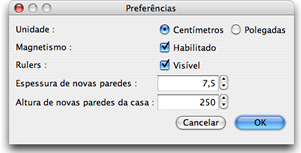
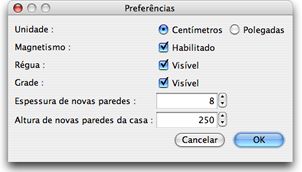
Added grid visibility to user preferences

Changed region(s): [[0.0, 0.0, 1.0, 0.9935]]

diff --git a/SweetHome3D/src/com/eteks/sweethome3d/swing/resources/help/fr/editingPreferences.html b/SweetHome3D/src/com/eteks/sweethome3d/swing/resources/help/fr/editingPreferences.html
@@ -28,7 +28,7 @@
 	<tr>
 	<td><p>Pour &eacute;diter les pr&eacute;f&eacute;rences de Sweet Home 3D, choisissez <i>Sweet Home 3D &gt; Pr&eacute;f&eacute;rences...</i> sous
 	    Mac OS X ou <i>Fichier &gt; Pr&eacute;f&eacute;rences...</i> sous les autres syst&egrave;mes d'exploitation.</p>
-	  <p align="center"><img src="images/editingPreferences.png" width="300" height="161"></p>
+	  <p align="center"><img src="images/editingPreferences.png" width="286" height="172"></p>
 	  <p>Dans le panneau des pr&eacute;f&eacute;rences, vous pouvez choisir l'<i>Unit&eacute;</i> utilis&eacute;e pour dessiner
 	    les r&egrave;gles et la grille du plan du
 	    logement, et pour afficher les longueurs. <br>
@@ -36,7 +36,9 @@
 	    au cours du dessin des murs et le positionnement des meubles.<br>
 	    La bo&icirc;te &agrave; cocher <i>R&egrave;gles</i> permet de rendre visibles ou invisibles les r&egrave;gles affich&eacute;es
 	    en haut et &agrave; gauche du plan.<br>
-	    La valeur de l'<i>Epaisseur des nouveaux murs</i> d&eacute;termine l'&eacute;paisseur des murs qui seront cr&eacute;&eacute;s
+	    La bo&icirc;te &agrave; cocher <i>Grille</i> permet de rendre visible ou invisible la grile affich&eacute;e
+	    sous le plan.<br>
+La valeur de l'<i>Epaisseur des nouveaux murs</i> d&eacute;termine l'&eacute;paisseur des murs qui seront cr&eacute;&eacute;s
 	    une fois que le panneau des pr&eacute;f&eacute;rences sera ferm&eacute;.<br>
 	    La valeur de la <i>Hauteur des nouveaux logements</i> d&eacute;termine la hauteur des murs des logements qui seront
 	    cr&eacute;&eacute;s

diff --git a/SweetHome3D/src/com/eteks/sweethome3d/swing/resources/help/en/editingPreferences.html b/SweetHome3D/src/com/eteks/sweethome3d/swing/resources/help/en/editingPreferences.html
@@ -28,18 +28,19 @@
 	<tr>
 	<td><p>To edit Sweet Home 3D preferences, choose <i>Sweet Home 3D &gt; Preferences...</i> on Mac OS X or <i>File &gt; Preferences...</i> on
 	    other systems.</p>
-	  <p align="center"><img src="images/editingPreferences.png" width="250" height="161"></p>
+	  <p align="center"><img src="images/editingPreferences.png" width="237" height="172"></p>
 	  <p>In preferences pane, you can choose the <i>Unit</i> used to draw home plan rulers and grid, and to display lengths.<br>
 	    The <i>Magnetism</i> check
 	    box enables or disables the magnetism used in home plan during <a href="drawingWalls.html">walls drawing</a> and <a href="editingFurniture.html">furniture
 	    placing</a>.<br>
 	    The <i>Rulers</i> check box allows to make plan rulers visible or invisible.<br>
-	    The <i>New walls thickness</i> value sets the thickness of all the walls that will be created once preferences pane
-	    will be closed.<br>
-	    The <i>New home walls height</i> value 
-	    sets the height of all the walls of new homes created once preferences pane will
-	    be closed.<br>
-	    </p>
+	    The <i>Grid</i> check box allows to make plan grid visible or invisible.<br>
+	      The <i>New walls thickness</i> value sets the thickness of all the walls that will be created once preferences pane
+	      will be closed.<br>
+	      The <i>New home walls height</i> value 
+	      sets the height of all the walls of new homes created once preferences pane will
+	      be closed.<br>
+        </p>
 	  </td>
 	</tr>
 </table>

diff --git a/SweetHome3D/src/com/eteks/sweethome3d/swing/UserPreferencesPanel.java b/SweetHome3D/src/com/eteks/sweethome3d/swing/UserPreferencesPanel.java
@@ -53,6 +53,8 @@ public class UserPreferencesPanel extends JPanel {
   private JCheckBox      magnetismCheckBox;
   private JLabel         rulersVisibleLabel;
   private JCheckBox      rulersCheckBox;
+  private JLabel         gridVisibleLabel;
+  private JCheckBox      gridCheckBox;
   private JLabel         newWallThicknessLabel;
   private JSpinner       newWallThicknessSpinner;
   private JLabel         newHomeWallHeightLabel;
@@ -93,6 +95,10 @@ public class UserPreferencesPanel extends JPanel {
     this.rulersCheckBox = new JCheckBox(
         this.resource.getString("rulersCheckBox.text"));
     
+    this.gridVisibleLabel = new JLabel(this.resource.getString("gridLabel.text"));
+    this.gridCheckBox = new JCheckBox(
+        this.resource.getString("gridCheckBox.text"));
+    
     this.newWallThicknessLabel = new JLabel(this.resource.getString("newWallThicknessLabel.text"));
     this.newWallThicknessSpinner = new JSpinner(new SpinnerLengthModel(
         0.5f, 0.125f, this.centimeterRadioButton));
@@ -114,6 +120,8 @@ public class UserPreferencesPanel extends JPanel {
           KeyStroke.getKeyStroke(this.resource.getString("magnetismCheckBox.mnemonic")).getKeyCode());
       this.rulersCheckBox.setMnemonic(
           KeyStroke.getKeyStroke(this.resource.getString("rulersCheckBox.mnemonic")).getKeyCode());
+      this.gridCheckBox.setMnemonic(
+          KeyStroke.getKeyStroke(this.resource.getString("gridCheckBox.mnemonic")).getKeyCode());
       this.newWallThicknessLabel.setDisplayedMnemonic(
           KeyStroke.getKeyStroke(this.resource.getString("newWallThicknessLabel.mnemonic")).getKeyCode());
       this.newWallThicknessLabel.setLabelFor(this.newWallThicknessSpinner);
@@ -153,18 +161,25 @@ public class UserPreferencesPanel extends JPanel {
         1, 2, 2, 1, 0, 0, GridBagConstraints.WEST, 
         GridBagConstraints.NONE, rightComponentInsets, 0, 0));
     
-    add(this.newWallThicknessLabel, new GridBagConstraints(
+    add(this.gridVisibleLabel, new GridBagConstraints(
         0, 3, 1, 1, 0, 0, GridBagConstraints.WEST, 
         GridBagConstraints.NONE, labelInsets, 0, 0));
+    add(this.gridCheckBox, new GridBagConstraints(
+        1, 3, 2, 1, 0, 0, GridBagConstraints.WEST, 
+        GridBagConstraints.NONE, rightComponentInsets, 0, 0));
+    
+    add(this.newWallThicknessLabel, new GridBagConstraints(
+        0, 4, 1, 1, 0, 0, GridBagConstraints.WEST, 
+        GridBagConstraints.NONE, labelInsets, 0, 0));
     add(this.newWallThicknessSpinner, new GridBagConstraints(
-        1, 3, 1, 1, 0, 0, GridBagConstraints.WEST, 
+        1, 4, 1, 1, 0, 0, GridBagConstraints.WEST, 
         GridBagConstraints.HORIZONTAL, rightComponentInsets, 0, 0));
     
     add(this.newHomeWallHeightLabel, new GridBagConstraints(
-        0, 4, 1, 1, 0, 0, GridBagConstraints.WEST, 
+        0, 5, 1, 1, 0, 0, GridBagConstraints.WEST, 
         GridBagConstraints.NONE, new Insets(0, 0, 0, 5), 0, 0));
     add(this.newHomeWallHeightSpinner, new GridBagConstraints(
-        1, 4, 1, 1, 0, 0, GridBagConstraints.WEST, 
+        1, 5, 1, 1, 0, 0, GridBagConstraints.WEST, 
         GridBagConstraints.HORIZONTAL, new Insets(0, 0, 0, 0), 0, 0));
   }
 
@@ -181,6 +196,8 @@ public class UserPreferencesPanel extends JPanel {
         preferences.isMagnetismEnabled());    
     this.rulersCheckBox.setSelected(
         preferences.isRulersVisible());    
+    this.gridCheckBox.setSelected(
+        preferences.isGridVisible());    
     ((SpinnerLengthModel)this.newWallThicknessSpinner.getModel()).
         setLength(preferences.getNewWallThickness());
     ((SpinnerLengthModel)this.newHomeWallHeightSpinner.getModel()).
@@ -220,6 +237,13 @@ public class UserPreferencesPanel extends JPanel {
    */
   public boolean isRulersVisible() {
     return this.rulersCheckBox.isSelected();
+  } 
+  
+  /**
+   * Returns <code>true</code> if grid is visible in panel.
+   */
+  public boolean isGridVisible() {
+    return this.gridCheckBox.isSelected();
   } 
   
   /**

diff --git a/SweetHome3D/test/com/eteks/sweethome3d/junit/UserPreferencesPanelTest.java b/SweetHome3D/test/com/eteks/sweethome3d/junit/UserPreferencesPanelTest.java
@@ -62,10 +62,12 @@ public class UserPreferencesPanelTest extends TestCase {
         (JRadioButton)TestUtilities.getField(panel, "centimeterRadioButton");
     JRadioButton inchRadioButton = 
         (JRadioButton)TestUtilities.getField(panel, "inchRadioButton");
-    JCheckBox    rulersCheckBox = 
-      (JCheckBox)TestUtilities.getField(panel, "rulersCheckBox");
     JCheckBox    magnetismCheckBox = 
         (JCheckBox)TestUtilities.getField(panel, "magnetismCheckBox");
+    JCheckBox    rulersCheckBox = 
+      (JCheckBox)TestUtilities.getField(panel, "rulersCheckBox");
+    JCheckBox    gridCheckBox = 
+      (JCheckBox)TestUtilities.getField(panel, "gridCheckBox");
     JSpinner newWallThicknessSpinner = 
         (JSpinner)TestUtilities.getField(panel, "newWallThicknessSpinner");
     JSpinner newHomeWallHeightSpinner = 
@@ -77,6 +79,7 @@ public class UserPreferencesPanelTest extends TestCase {
         inchRadioButton.isSelected());
     assertTrue("Magnestism isn't selected", magnetismCheckBox.isSelected());
     assertTrue("Rulers isn't selected", rulersCheckBox.isSelected());
+    assertTrue("Grid isn't selected", gridCheckBox.isSelected());
     assertEquals("Wrong default thickness", 
         newWallThicknessSpinner.getValue(), defaultPreferences.getNewWallThickness());
     assertEquals("Wrong default wall height", 
@@ -86,6 +89,7 @@ public class UserPreferencesPanelTest extends TestCase {
     inchRadioButton.setSelected(true);
     magnetismCheckBox.setSelected(false);
     rulersCheckBox.setSelected(false);
+    gridCheckBox.setSelected(false);
     newWallThicknessSpinner.setValue(1);
     newHomeWallHeightSpinner.setValue(100);
     
@@ -93,10 +97,11 @@ public class UserPreferencesPanelTest extends TestCase {
     preferences.setUnit(panel.getUnit());
     preferences.setMagnetismEnabled(panel.isMagnetismEnabled());
     preferences.setRulersVisible(panel.isRulersVisible());
+    preferences.setGridVisible(panel.isGridVisible());
     preferences.setNewWallThickness(panel.getNewWallThickness());
     preferences.setNewHomeWallHeight(panel.getNewHomeWallHeight());
     // Check preferences value
-    assertPreferencesEqual(UserPreferences.Unit.INCH, false, false,
+    assertPreferencesEqual(UserPreferences.Unit.INCH, false, false, false,
         UserPreferences.Unit.inchToCentimeter(1), 
         UserPreferences.Unit.inchToCentimeter(100), 
         preferences);
@@ -108,6 +113,7 @@ public class UserPreferencesPanelTest extends TestCase {
     assertPreferencesEqual(preferences.getUnit(),
         preferences.isMagnetismEnabled(), 
         preferences.isRulersVisible(), 
+        preferences.isGridVisible(), 
         preferences.getNewWallThickness(),  
         preferences.getNewHomeWallHeight(), readPreferences);
   }
@@ -119,6 +125,7 @@ public class UserPreferencesPanelTest extends TestCase {
   private void assertPreferencesEqual(UserPreferences.Unit unit,
                                       boolean magnetism,
                                       boolean rulers,
+                                      boolean grid,
                                       float newWallThickness,
                                       float newHomeWallHeight,
                                       UserPreferences preferences) {
@@ -128,6 +135,8 @@ public class UserPreferencesPanelTest extends TestCase {
         preferences.isMagnetismEnabled());
     assertEquals("Wrong rulers visibility", rulers,
         preferences.isRulersVisible());
+    assertEquals("Wrong grid visibility", grid,
+        preferences.isGridVisible());
     assertEquals("Wrong new wall thickness", newWallThickness, 
         preferences.getNewWallThickness());
     assertEquals("Wrong new home wall height", newHomeWallHeight,

diff --git a/SweetHome3D/src/com/eteks/sweethome3d/swing/PlanComponent.java b/SweetHome3D/src/com/eteks/sweethome3d/swing/PlanComponent.java
@@ -354,6 +354,8 @@ public class PlanComponent extends JComponent implements Scrollable, Printable {
       });
     preferences.addPropertyChangeListener(UserPreferences.Property.UNIT, 
         new UnitChangeListener(this));
+    preferences.addPropertyChangeListener(UserPreferences.Property.GRID_VISIBLE, 
+        new GridVisibleChangeListener(this));
   }
 
   /**
@@ -381,6 +383,29 @@ public class PlanComponent extends JComponent implements Scrollable, Printable {
         if (planComponent.verticalRuler != null) {
           planComponent.verticalRuler.repaint();
         }
+      }
+    }
+  }
+
+  /**
+   * Preferences property listener bound to this component with a weak reference to avoid
+   * strong link between preferences and this component.  
+   */
+  private static class GridVisibleChangeListener implements PropertyChangeListener {
+    private WeakReference<PlanComponent>  planComponent;
+
+    public GridVisibleChangeListener(PlanComponent planComponent) {
+      this.planComponent = new WeakReference<PlanComponent>(planComponent);
+    }
+    
+    public void propertyChange(PropertyChangeEvent ev) {
+      // If plan component was garbage collected, remove this listener from preferences
+      PlanComponent planComponent = this.planComponent.get();
+      if (planComponent == null) {
+        ((UserPreferences)ev.getSource()).removePropertyChangeListener(
+            UserPreferences.Property.UNIT, this);
+      } else {
+        planComponent.repaint();
       }
     }
   }
@@ -655,7 +680,9 @@ public class PlanComponent extends JComponent implements Scrollable, Printable {
     setRenderingHints(g2D);
     // Paint component contents
     paintBackgroundImage(g2D);
-    paintGrid(g2D, this.scale);
+    if (this.preferences.isGridVisible()) {
+      paintGrid(g2D, this.scale);
+    }
     paintContent(g2D, this.scale, backgroundColor, foregroundColor, PaintMode.PAINT);   
     g2D.dispose();
   }

diff --git a/SweetHome3D/src/com/eteks/sweethome3d/model/UserPreferences.java b/SweetHome3D/src/com/eteks/sweethome3d/model/UserPreferences.java
@@ -30,7 +30,7 @@ import java.util.List;
  * @author Emmanuel Puybaret
  */
 public abstract class UserPreferences {
-  public enum Property {UNIT, MAGNETISM_ENABLED, RULERS_VISIBLE,  
+  public enum Property {UNIT, MAGNETISM_ENABLED, RULERS_VISIBLE, GRID_VISIBLE, 
                         NEW_HOME_WALL_HEIGHT, NEW_WALL_THICKNESS, RECENT_HOMES}
   
   private PropertyChangeSupport propertyChangeSupport;
@@ -58,6 +58,7 @@ public abstract class UserPreferences {
   private Unit         unit;
   private boolean      magnetismEnabled = true;
   private boolean      rulersVisible    = true;
+  private boolean      gridVisible      = true;
   private float        newWallThickness;
   private float        newHomeWallHeight;
   private List<String> recentHomes;
@@ -159,6 +160,28 @@ public abstract class UserPreferences {
       this.rulersVisible = rulersVisible;
       this.propertyChangeSupport.firePropertyChange(Property.RULERS_VISIBLE.toString(), 
           !rulersVisible, rulersVisible);
+    }
+  }
+  
+  /**
+   * Returns <code>true</code> if plan grid visible.
+   * @return <code>true</code> by default.
+   */
+  public boolean isGridVisible() {
+    return this.gridVisible;
+  }
+  
+  /**
+   * Sets whether plan grid is visible or not, and notifies
+   * listeners of this change. 
+   * @param gridVisible <code>true</code> if grid is visible,
+   *          <code>false</code> otherwise.
+   */
+  public void setGridVisible(boolean gridVisible) {
+    if (this.gridVisible != gridVisible) {
+      this.gridVisible = gridVisible;
+      this.propertyChangeSupport.firePropertyChange(Property.GRID_VISIBLE.toString(), 
+          !gridVisible, gridVisible);
     }
   }
 

diff --git a/SweetHome3D/src/com/eteks/sweethome3d/io/FileUserPreferences.java b/SweetHome3D/src/com/eteks/sweethome3d/io/FileUserPreferences.java
@@ -54,6 +54,7 @@ public class FileUserPreferences extends UserPreferences {
   private static final String UNIT                      = "unit";
   private static final String MAGNETISM_ENABLED         = "magnetismEnabled";
   private static final String RULERS_VISIBLE            = "rulersVisible";
+  private static final String GRID_VISIBLE              = "gridVisible";
   private static final String NEW_HOME_WALL_HEIGHT      = "newHomeWallHeight";
   private static final String NEW_WALL_THICKNESS        = "newWallThickness";
   private static final String RECENT_HOMES              = "recentHomes#";
@@ -106,6 +107,7 @@ public class FileUserPreferences extends UserPreferences {
     setUnit(unit);
     setMagnetismEnabled(preferences.getBoolean(MAGNETISM_ENABLED, true));
     setRulersVisible(preferences.getBoolean(RULERS_VISIBLE, true));
+    setGridVisible(preferences.getBoolean(GRID_VISIBLE, true));
     setNewWallThickness(preferences.getFloat(NEW_WALL_THICKNESS, 
             defaultPreferences.getNewWallThickness()));
     setNewHomeWallHeight(preferences.getFloat(NEW_HOME_WALL_HEIGHT,
@@ -213,6 +215,7 @@ public class FileUserPreferences extends UserPreferences {
     preferences.put(UNIT, getUnit().toString());   
     preferences.putBoolean(MAGNETISM_ENABLED, isMagnetismEnabled());
     preferences.putBoolean(RULERS_VISIBLE, isRulersVisible());
+    preferences.putBoolean(GRID_VISIBLE, isGridVisible());
     preferences.putFloat(NEW_WALL_THICKNESS, getNewWallThickness());   
     preferences.putFloat(NEW_HOME_WALL_HEIGHT, getNewHomeWallHeight());
     // Write recent homes list

diff --git a/SweetHome3D/src/com/eteks/sweethome3d/swing/HomeController.java b/SweetHome3D/src/com/eteks/sweethome3d/swing/HomeController.java
@@ -1104,6 +1104,7 @@ public class HomeController  {
       this.preferences.setUnit(preferencesPanel.getUnit());
       this.preferences.setMagnetismEnabled(preferencesPanel.isMagnetismEnabled());
       this.preferences.setRulersVisible(preferencesPanel.isRulersVisible());
+      this.preferences.setGridVisible(preferencesPanel.isGridVisible());
       this.preferences.setNewWallThickness(preferencesPanel.getNewWallThickness());
       this.preferences.setNewHomeWallHeight(preferencesPanel.getNewHomeWallHeight());
       try {
